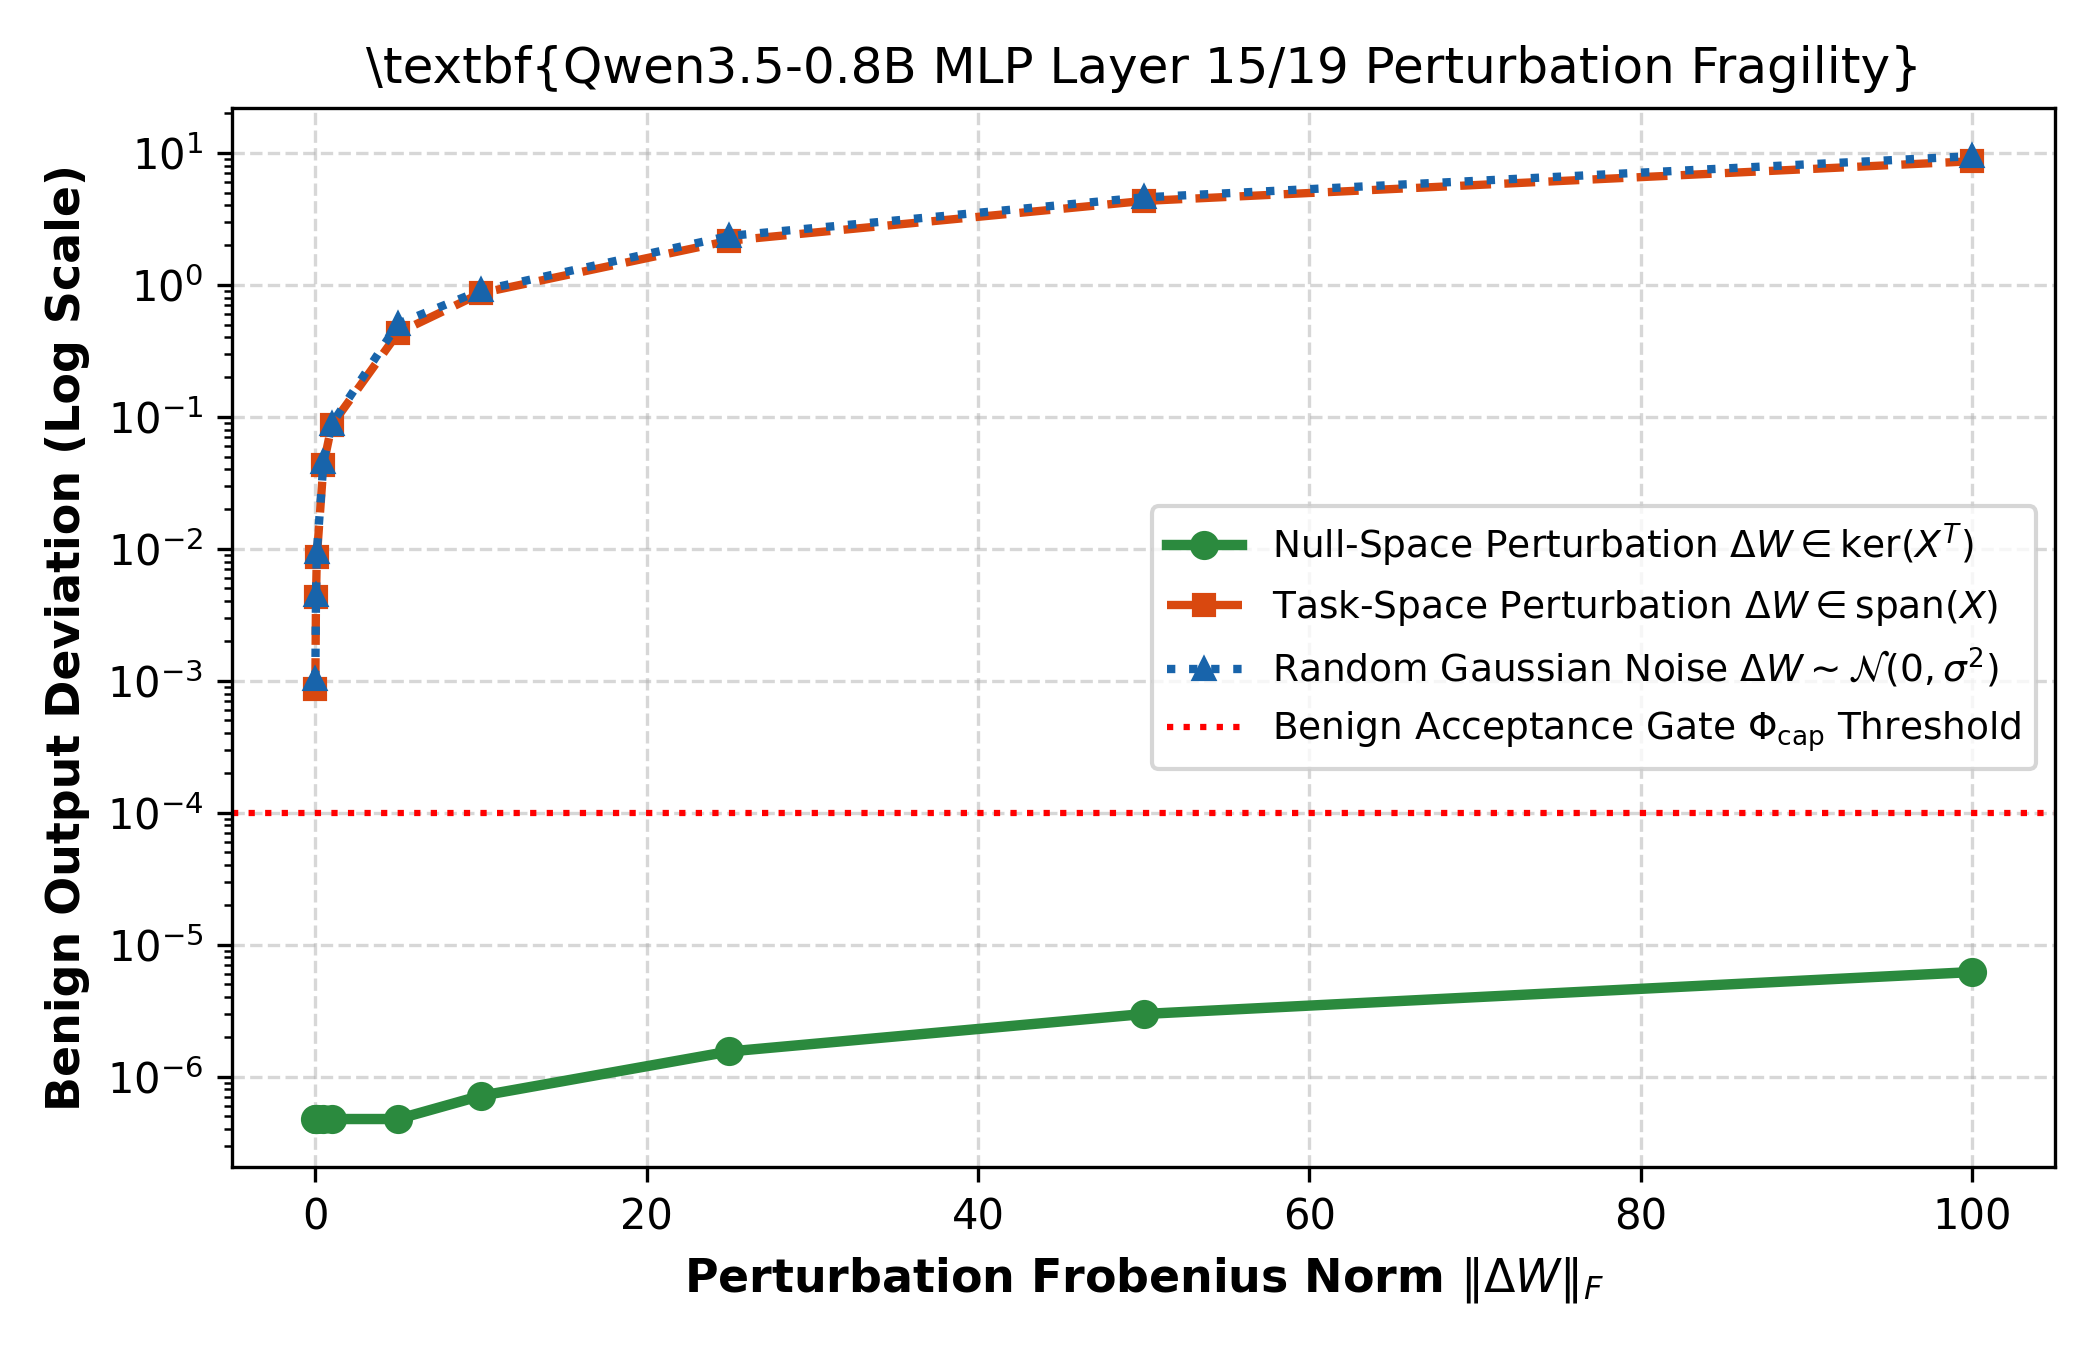
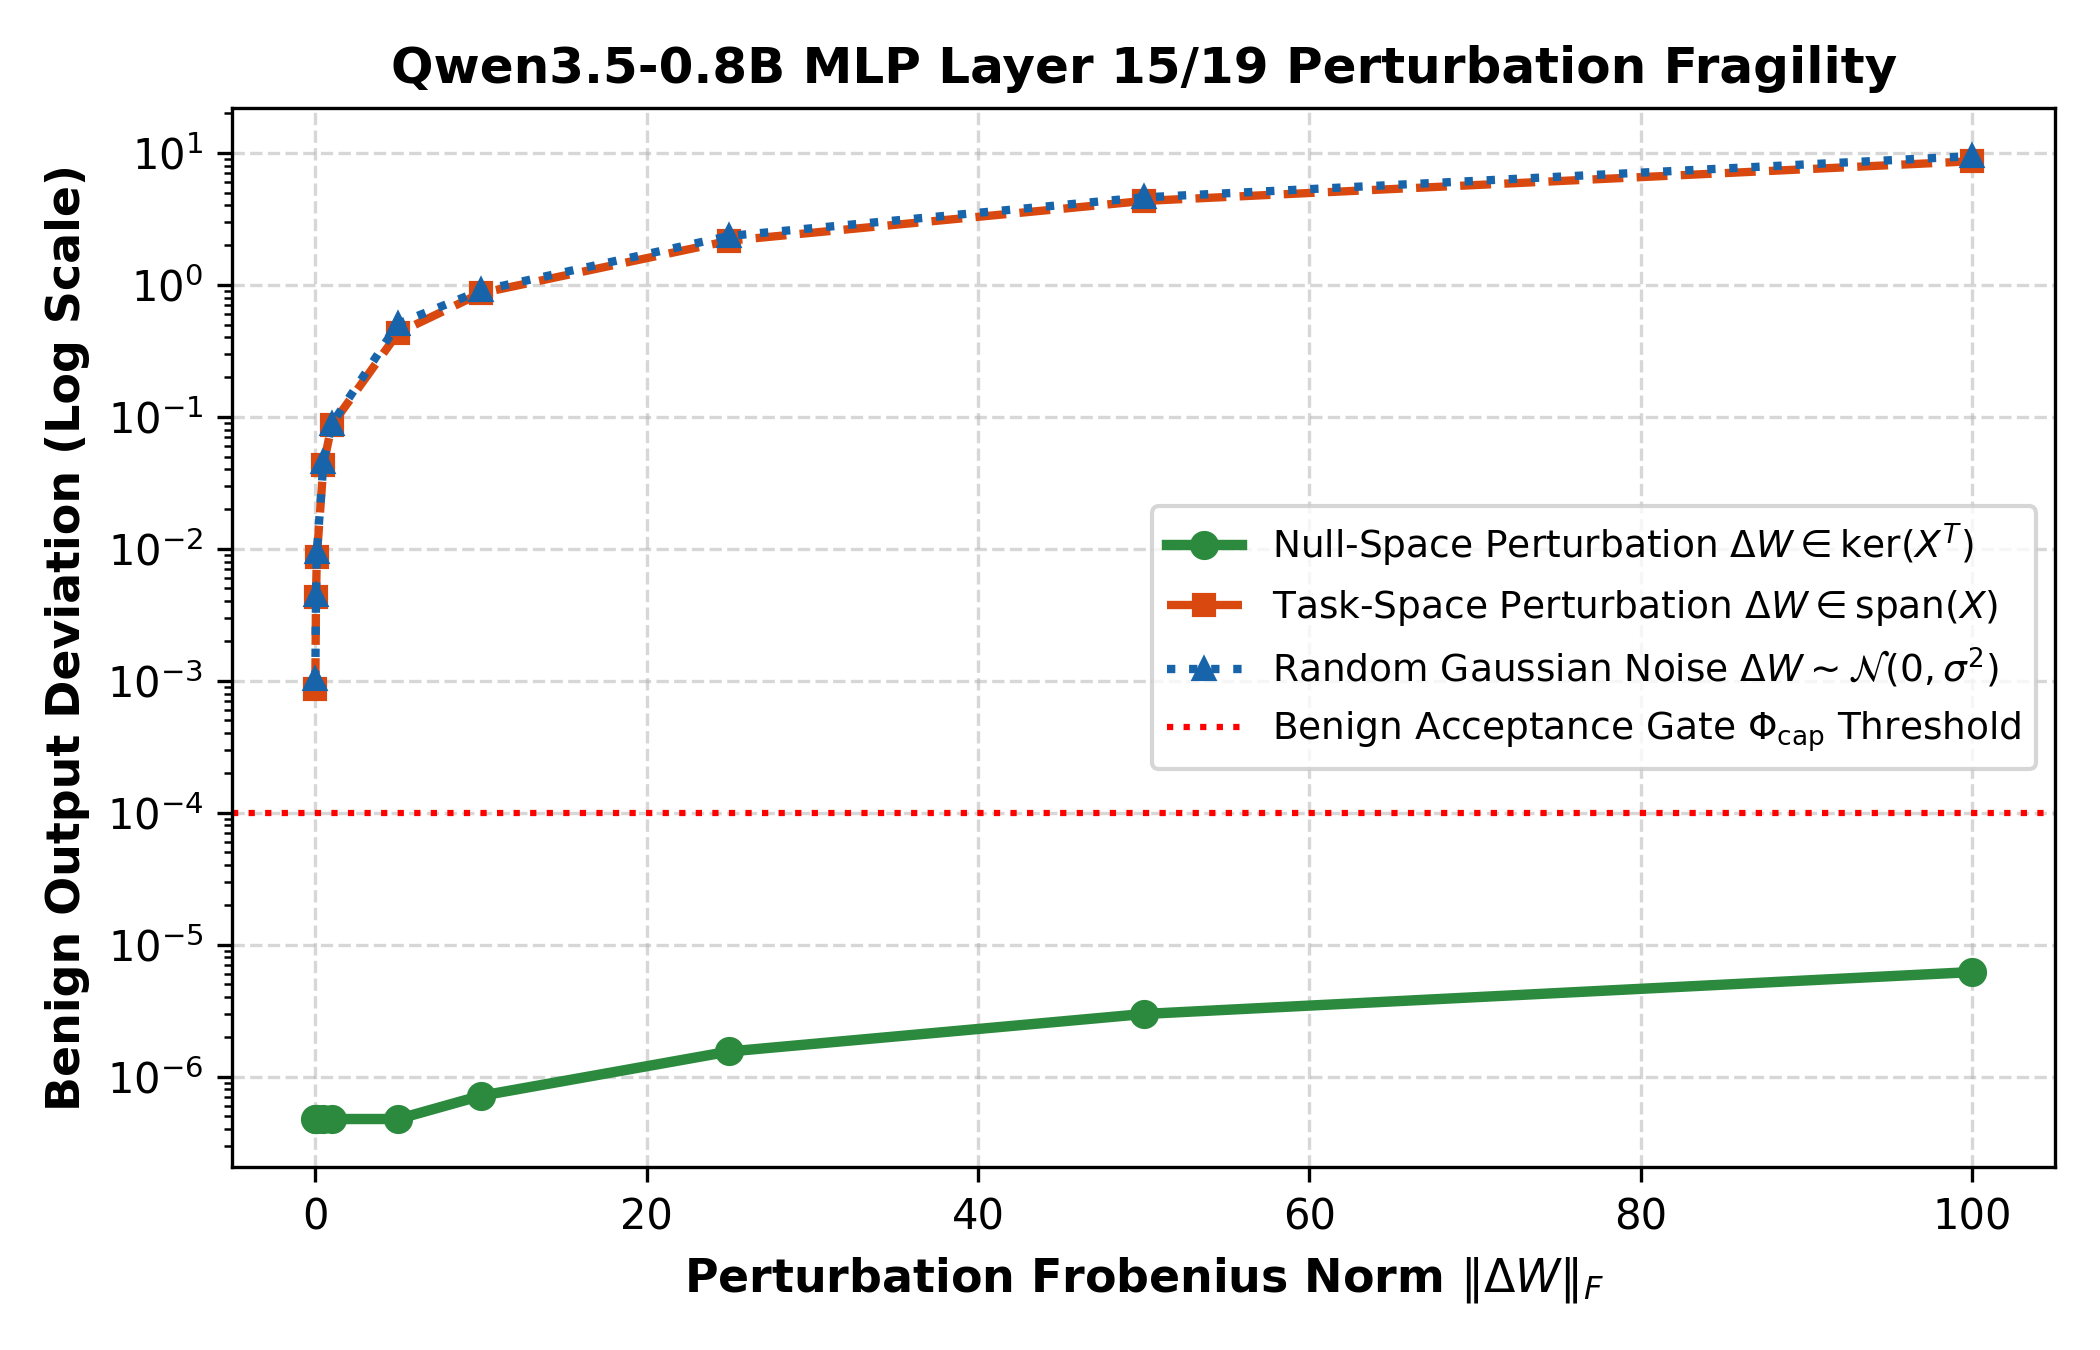
fix(viz): replace raw LaTeX \textbf macro with fontweight=bold in plot titles

Changed region(s): [[0.1548, 0.0311, 0.9286, 0.0622]]

diff --git a/experiments/mutation_sweep_qwen35.py b/experiments/mutation_sweep_qwen35.py
@@ -16,6 +16,7 @@ import os
 import sys
 import json
 import csv
+import shutil
 import hashlib
 import numpy as np
 import torch
@@ -350,7 +351,7 @@ def plot_results(sweep1_data, sweep2_data, sweep3_data):
     plt.axhline(1e-4, color="red", linestyle=":", linewidth=1.5, label=r"Benign Acceptance Gate $\Phi_{\mathrm{cap}}$ Threshold")
     plt.xlabel(r"Perturbation Frobenius Norm $\|\Delta W\|_F$", fontsize=11, fontweight="bold")
     plt.ylabel(r"Benign Output Deviation (Log Scale)", fontsize=11, fontweight="bold")
-    plt.title(r"\textbf{Qwen3.5-0.8B MLP Layer 15/19 Perturbation Fragility}", fontsize=12)
+    plt.title("Qwen3.5-0.8B MLP Layer 15/19 Perturbation Fragility", fontsize=12, fontweight="bold")
     plt.grid(True, linestyle="--", alpha=0.5)
     plt.legend(frameon=True, fontsize=9, loc="center right")
     plt.tight_layout()
@@ -383,13 +384,20 @@ def plot_results(sweep1_data, sweep2_data, sweep3_data):
     ax2.tick_params(axis="y", labelcolor=color2)
     ax2.set_yscale("log")
 
-    plt.title(r"\textbf{Semantic Gap: Benign Invariance vs. Trojan Activation}", fontsize=12)
+    plt.title("Semantic Gap: Benign Invariance vs. Trojan Activation", fontsize=12, fontweight="bold")
     fig.tight_layout()
 
     fig2_path = os.path.join(RESULTS_DIR, "qwen35_trojan_scaling.png")
     plt.savefig(fig2_path)
     plt.close()
     print(f"    Saved: {fig2_path}")
+
+    # Sync to paper directory if present
+    paper_dir = os.path.join(PROJECT_ROOT, "paper")
+    if os.path.exists(paper_dir):
+        shutil.copy(fig1_path, os.path.join(paper_dir, "qwen35_nullspace_vs_random.png"))
+        shutil.copy(fig2_path, os.path.join(paper_dir, "qwen35_trojan_scaling.png"))
+        print(f"    Synchronized figures to: {paper_dir}")
 
 
 def main():
